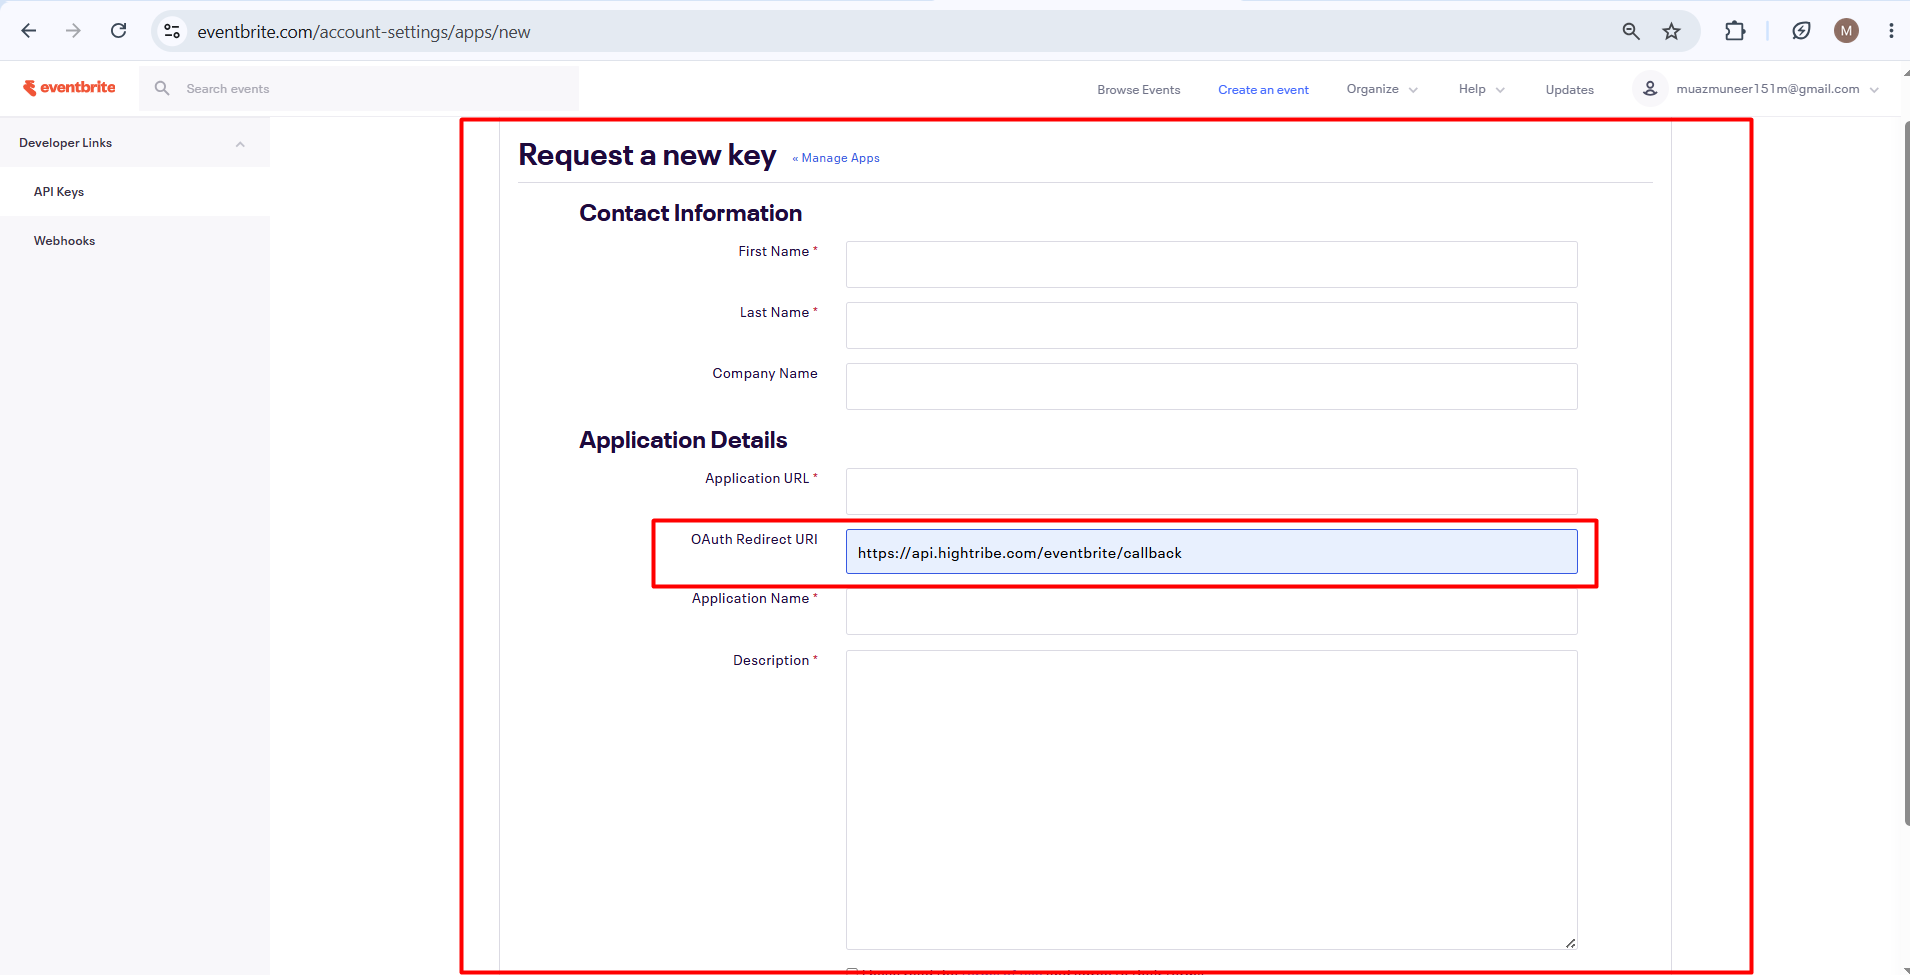
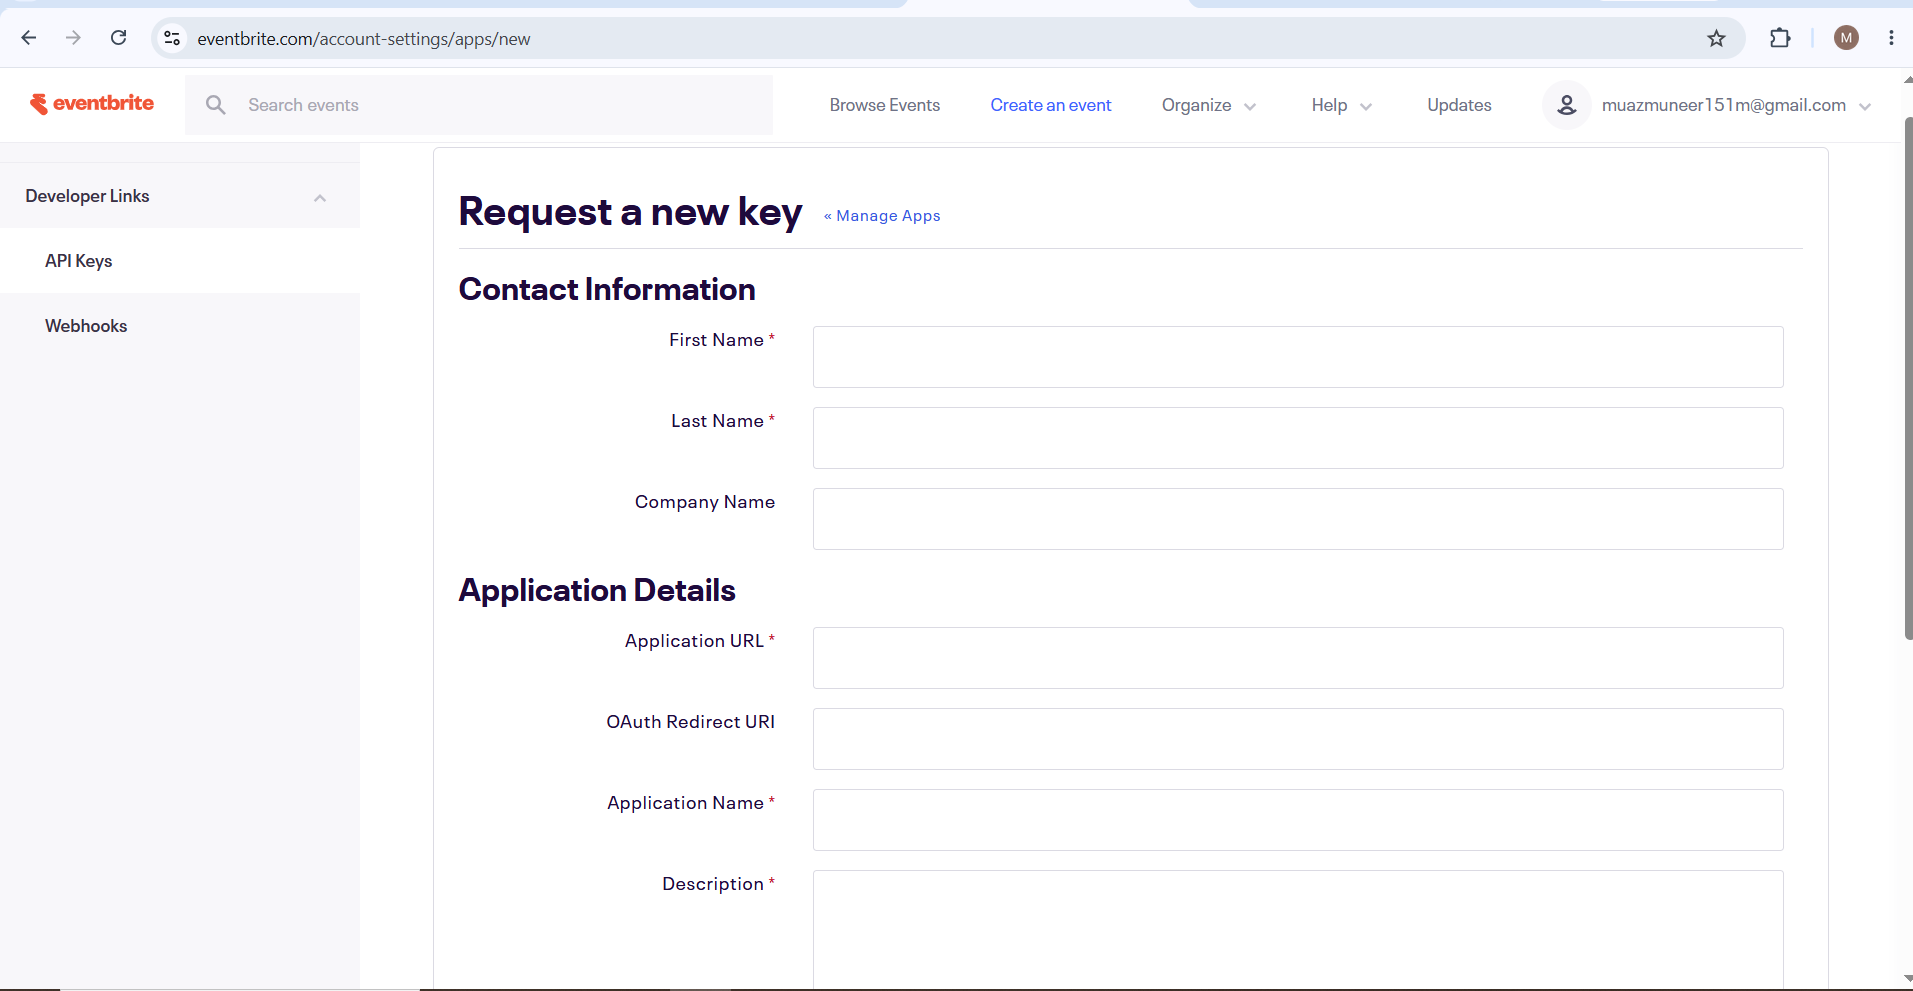
fix

diff --git a/src/app/settings/page.tsx b/src/app/settings/page.tsx
@@ -11,8 +11,7 @@ import type { HtUser } from '@/lib/auth'
 import { ChannelLogo } from '@/components/ChannelLogo'
 import { HIGHTRIBE_COLOR, LUMA_COLOR, EVENTBRITE_COLOR } from '@/lib/brand'
 import { ConnectHightribeSection } from '@/components/ConnectHightribeSection'
-import { getEwentcastAccount, isEwentcastSignupUser, fetchAuthMe, type EwentcastAccount } from '@/lib/ewentcast-session'
-import { SubscriptionBillingSection } from '@/components/billing/SubscriptionBillingSection'
+import { getEwentcastAccount, isEwentcastSignupUser } from '@/lib/ewentcast-session'
 import { disconnectChannelIntegration } from '@/lib/channel-disconnect'
 import { effectiveEventbriteRedirectUri } from '@/lib/app-url'
 import { useAppUrl, useEventbriteRedirectUri } from '@/lib/use-app-url'
@@ -146,6 +145,7 @@ type GuideStep = {
   path: string
   img: string
   note?: string
+  link?: { href: string; label: string }
 }
 
 function StepGuide({ steps, color, title }: {
@@ -252,6 +252,18 @@ function StepGuide({ steps, color, title }: {
                     />
                   </div>
                   <p className="step-guide__step-desc">{s.desc}</p>
+                  {s.link && (
+                    <p className="step-guide__step-desc" style={{ marginTop: 8 }}>
+                      <a
+                        href={s.link.href}
+                        target="_blank"
+                        rel="noopener noreferrer"
+                        style={{ color: 'var(--guide-color, #D98A2B)', fontWeight: 600 }}
+                      >
+                        {s.link.label}
+                      </a>
+                    </p>
+                  )}
                   <div className="step-guide__meta">
                     <code className="step-guide__path">{s.path}</code>
                     {s.note && <span className="step-guide__note">{s.note}</span>}
@@ -309,8 +321,10 @@ const LUMA_STEPS: GuideStep[] = [
 const EVENTBRITE_STEPS: GuideStep[] = [
   {
     num: 1, title: 'Open Eventbrite Developer',
-    desc: 'Go to eventbrite.com → Account → Developer Links → API Keys. Click Create API Key.',
-    path: 'Account → Developer Links → API Keys', img: '/eventbrite-guide/step_1_eventbrite.png',
+    desc: 'Go to Eventbrite, sign in, then open Account → Developer Links → API Keys. Click Create API Key.',
+    path: 'Account → Developer Links → API Keys',
+    img: '/eventbrite-guide/step_1_eventbrite.png',
+    link: { href: 'https://www.eventbrite.com/', label: 'eventbrite.com →' },
   },
   {
     num: 2, title: 'Fill App Details',
@@ -318,14 +332,27 @@ const EVENTBRITE_STEPS: GuideStep[] = [
     path: 'Key Info → Application URL + OAuth Redirect URI', img: '/eventbrite-guide/step_2_eventbrite.png',
   },
   {
-    num: 3, title: 'Copy Credentials',
-    desc: 'Copy your Private Token, API Key, and Client Secret. Paste them into the fields below.',
-    path: 'API Key Details → Copy credentials', img: '/eventbrite-guide/step_3_eventbrite.png',
+    num: 3, title: 'Fill the Form',
+    desc: 'On Eventbrite’s Request a new key page, paste Application URL and OAuth Redirect URI from the copy box above. Complete the form and submit.',
+    path: 'Request a new key → Fill & submit', img: '/eventbrite-guide/step_4_eventbrite.png',
   },
   {
-    num: 4, title: 'Register Webhook',
-    desc: 'Go to Organization → Webhooks → Add Webhook. Paste the Webhook URL and select Order Placed + Attendee Updated.',
-    path: 'Organization → Webhooks → Add Webhook', img: '/eventbrite-guide/step_4_eventbrite.png',
+    num: 4, title: 'Copy Credentials',
+    desc: 'Open your API key → Show API key, client secret and tokens. Copy API Key, Client Secret, Private Token, and Public Token into the form on the right, then click Save.',
+    path: 'API Keys → Copy credentials → Paste & Save', img: '/eventbrite-guide/step_3_eventbrite.png',
+  },
+  {
+    num: 5, title: 'Open Webhooks',
+    desc: 'Open Account Settings, expand Developer Links in the left sidebar, then click Webhooks.',
+    path: 'Account Settings → Developer Links → Webhooks',
+    img: '/eventbrite-guide/step_5_eventbrite.png',
+    link: { href: 'https://www.eventbrite.com/account-settings/webhooks', label: 'eventbrite.com/account-settings/webhooks →' },
+  },
+  {
+    num: 6, title: 'Add Webhook',
+    desc: 'Click + Add webhook. Paste the Eventbrite Webhook URL from the Webhooks section below into Payload URL. Set Event to All Events, check Click to activate all actions, then save.',
+    path: 'Webhooks → Add Webhook → Payload URL + Actions',
+    img: '/eventbrite-guide/step_6_eventbrite.png',
   },
 ]
 
@@ -422,6 +449,9 @@ function WebhooksPanel({ only }: { only?: 'luma' | 'eventbrite' }) {
           <ChannelLogo channel="eventbrite" size={18} />
           <span style={{ fontSize: '12px', fontWeight: 600, color: '#211B16' }}>Eventbrite</span>
         </div>
+        <p style={{ margin: '0 0 8px', fontSize: '12px', color: '#8C7F6D', lineHeight: 1.5 }}>
+          Paste this as <strong>Payload URL</strong> in Eventbrite (steps 5–6 above): Developer Links → Webhooks → Add webhook.
+        </p>
         <div style={urlRowStyle}>
           <code style={{ flex: 1, fontSize: '12px', color: '#211B16', wordBreak: 'break-all' }}>{ebUrl}</code>
           <CopyButton value={ebUrl} />
@@ -502,17 +532,10 @@ export default function SettingsPage() {
   const [disconnecting, setDisconnecting] = useState<string | null>(null)
   const [testing, setTesting] = useState<string | null>(null)
   const [htUser, setHtUser] = useState<HtUser | null>(null)
-  const [account, setAccount] = useState<EwentcastAccount | null>(null)
   const [channelLoadError, setChannelLoadError] = useState<string | null>(null)
   const { toasts, toast, removeToast } = useToast()
 
   useEffect(() => { setHtUser(getUser()) }, [])
-
-  useEffect(() => {
-    fetchAuthMe()
-      .then((data) => setAccount(data?.ewentcast ?? getEwentcastAccount()))
-      .catch(() => setAccount(getEwentcastAccount()))
-  }, [])
 
   const loadSettings = useCallback(async () => {
     setLoading(true)
@@ -736,18 +759,6 @@ export default function SettingsPage() {
 
       {loading ? <PageLoader label="Loading settings…" /> : (
         <>
-          {!focusChannel && account?.auth_source === 'ewentcast_signup' && (
-            <SectionCard title="Subscription & Billing" icon="◆">
-              <p style={{ margin: '0 0 14px', fontSize: '12px', color: '#8C7F6D' }}>
-                Full billing page:{' '}
-                <Link href="/billing" style={{ color: '#D98A2B', textDecoration: 'none', fontWeight: 600 }}>
-                  Open Billing →
-                </Link>
-              </p>
-              <SubscriptionBillingSection account={account} />
-            </SectionCard>
-          )}
-
           {showEventbrite && (
           <SectionCard title="Eventbrite" channel="eventbrite">
             <div className="settings-channel-layout">

diff --git a/src/app/api/webhooks/setup/route.ts b/src/app/api/webhooks/setup/route.ts
@@ -5,6 +5,24 @@ import { getAppUrl } from '@/lib/app-url'
 
 const EB_BASE = 'https://www.eventbriteapi.com/v3'
 
+/** Match Eventbrite UI: Account Settings → Webhooks → "Click to activate all actions" */
+const EVENTBRITE_WEBHOOK_ACTIONS = [
+  'attendee.updated',
+  'attendee.checked_in',
+  'attendee.checked_out',
+  'event.created',
+  'event.published',
+  'event.unpublished',
+  'event.updated',
+  'order.placed',
+  'order.refunded',
+  'order.updated',
+  'organizer.updated',
+  'ticket_class.created',
+  'ticket_class.deleted',
+  'ticket_class.updated',
+].join(',')
+
 function webhookBase(req: NextRequest): string {
   const host = req.headers.get('x-forwarded-host') || req.headers.get('host')
   if (host) {
@@ -69,7 +87,7 @@ export async function POST(req: NextRequest) {
           },
           body: JSON.stringify({
             endpoint_url: webhookUrl,
-            actions: 'order.placed,attendee.updated',
+            actions: EVENTBRITE_WEBHOOK_ACTIONS,
           }),
         })
         const whData = await readJsonSafe(whRes)

diff --git a/src/components/billing/billing.css b/src/components/billing/billing.css
@@ -79,7 +79,8 @@
 }
 
 .billing-page {
-  max-width: 880px;
+  width: 100%;
+  max-width: none;
 }
 
 .billing-page__header {